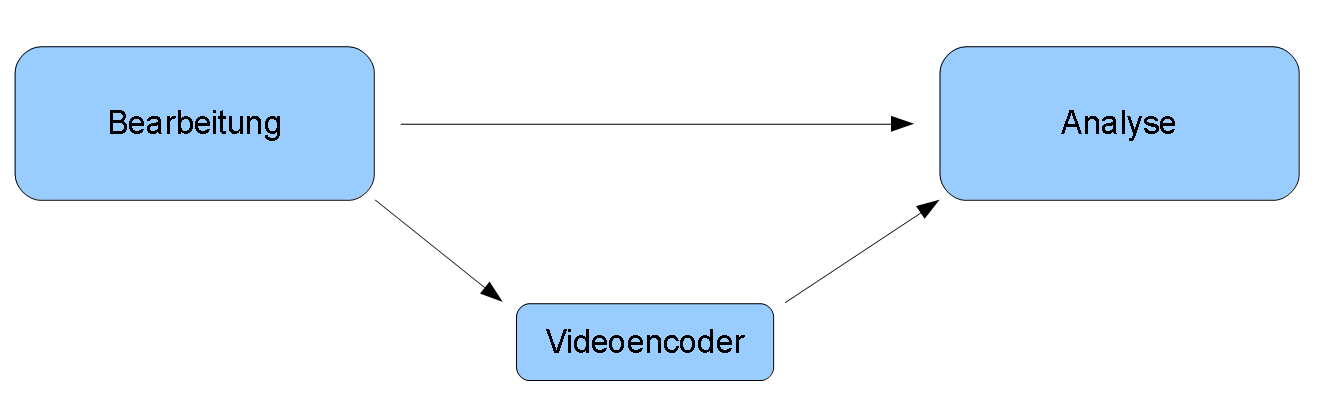
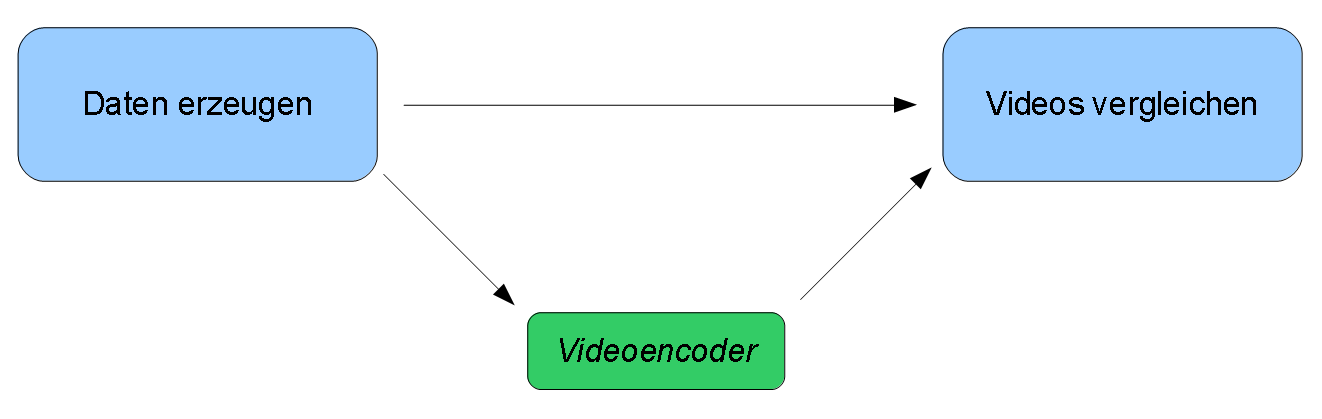
aufgabe überarbetite nach treffen.

diff --git a/abschlusspraesentation/presentation.tex b/abschlusspraesentation/presentation.tex
@@ -44,12 +44,15 @@ Leidig \\[0.3cm] Betreuer: Dipl.-Inform. Sebastian Kobbe}
 		
 			\begin{itemize}
 				\item <+-> Videoencoder testen
-				\item <+-> Videos verändern
-				\item <+-> Videos analysieren
-				% \item <+-> Wozu?
+				\begin{itemize}
+					\item <+-> Eingabedaten erstellen
+					\item <+-> Videos vergleichen
+				\end{itemize}
+			
+			
 			\end{itemize}
 			\begin{figure}
-				\includegraphics<4->[scale=.32]{img/aufgabe.png}
+				\includegraphics<4->[scale=.33]{img/aufgabe.png}
 			\end{figure}
 		
 				
